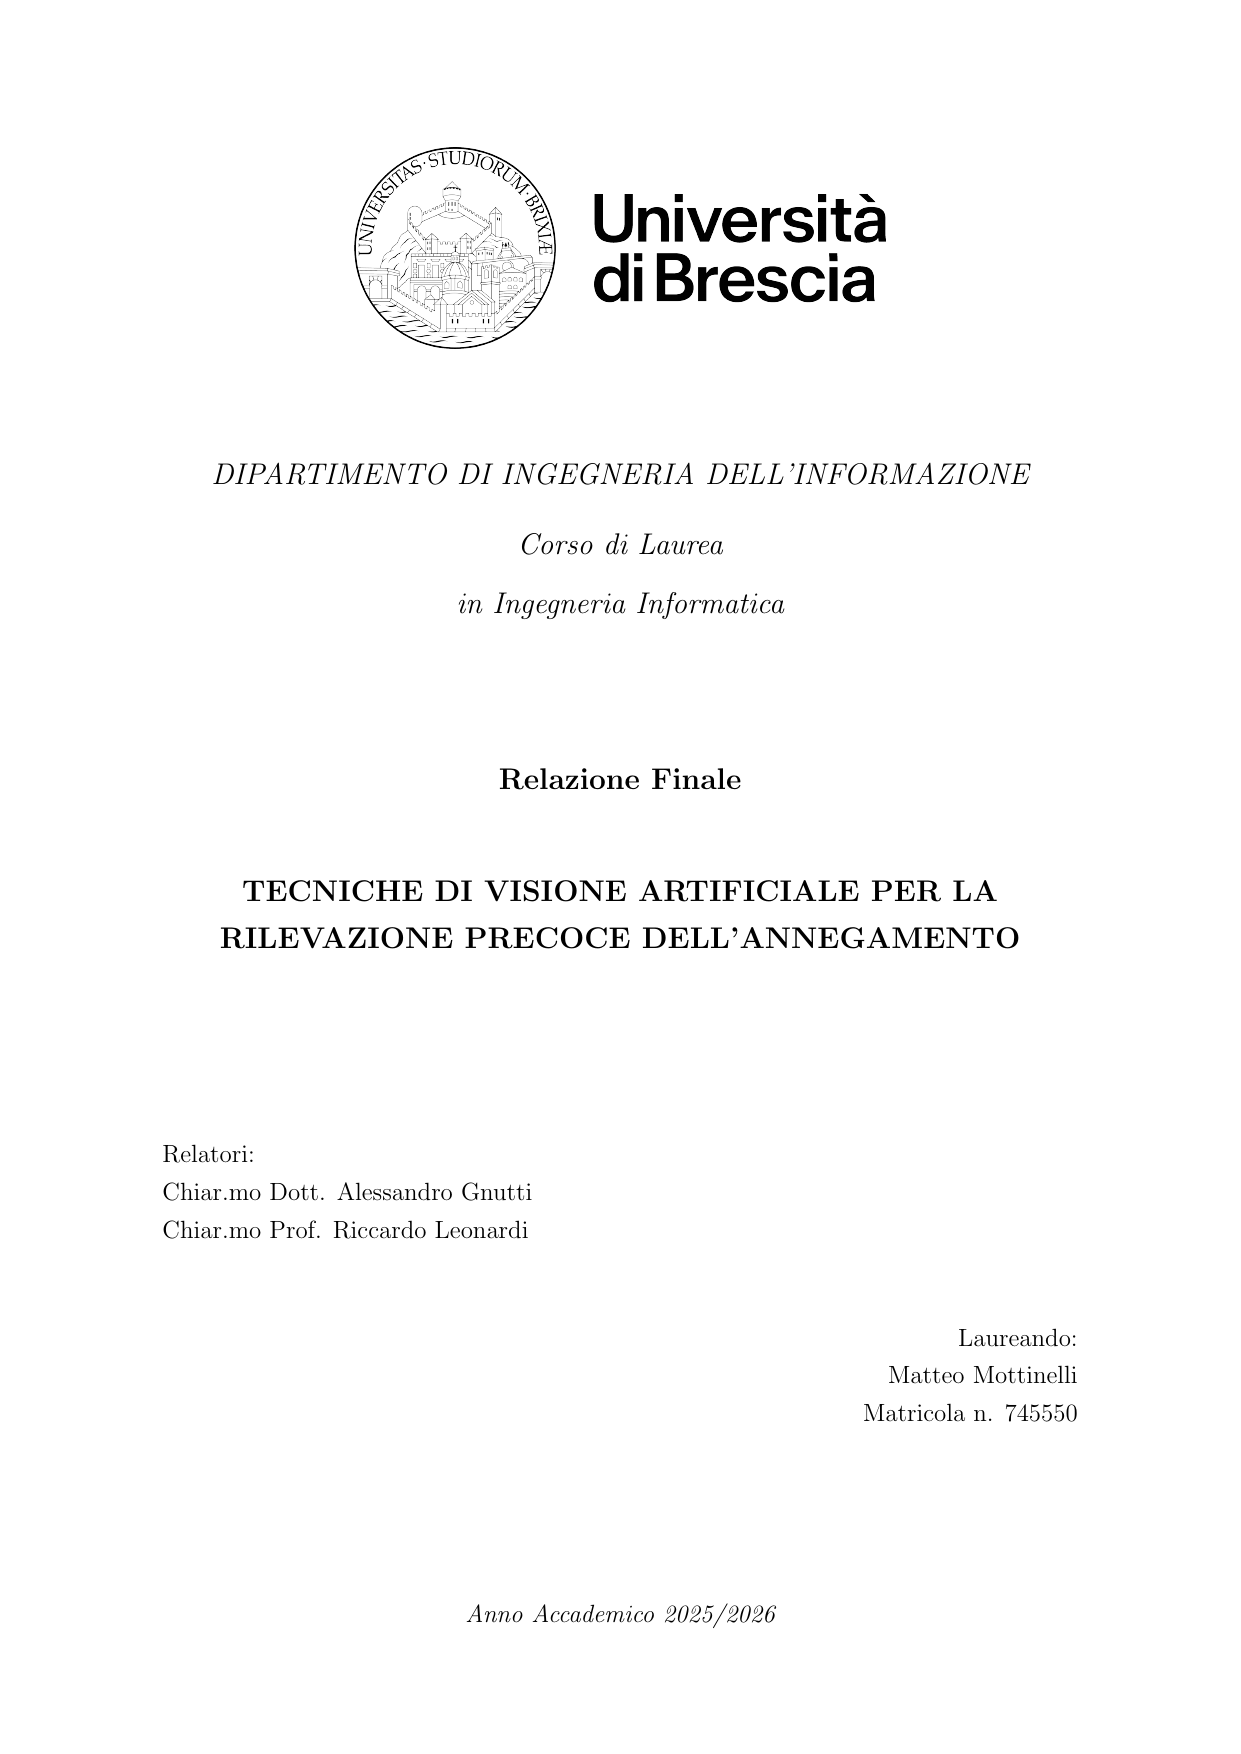
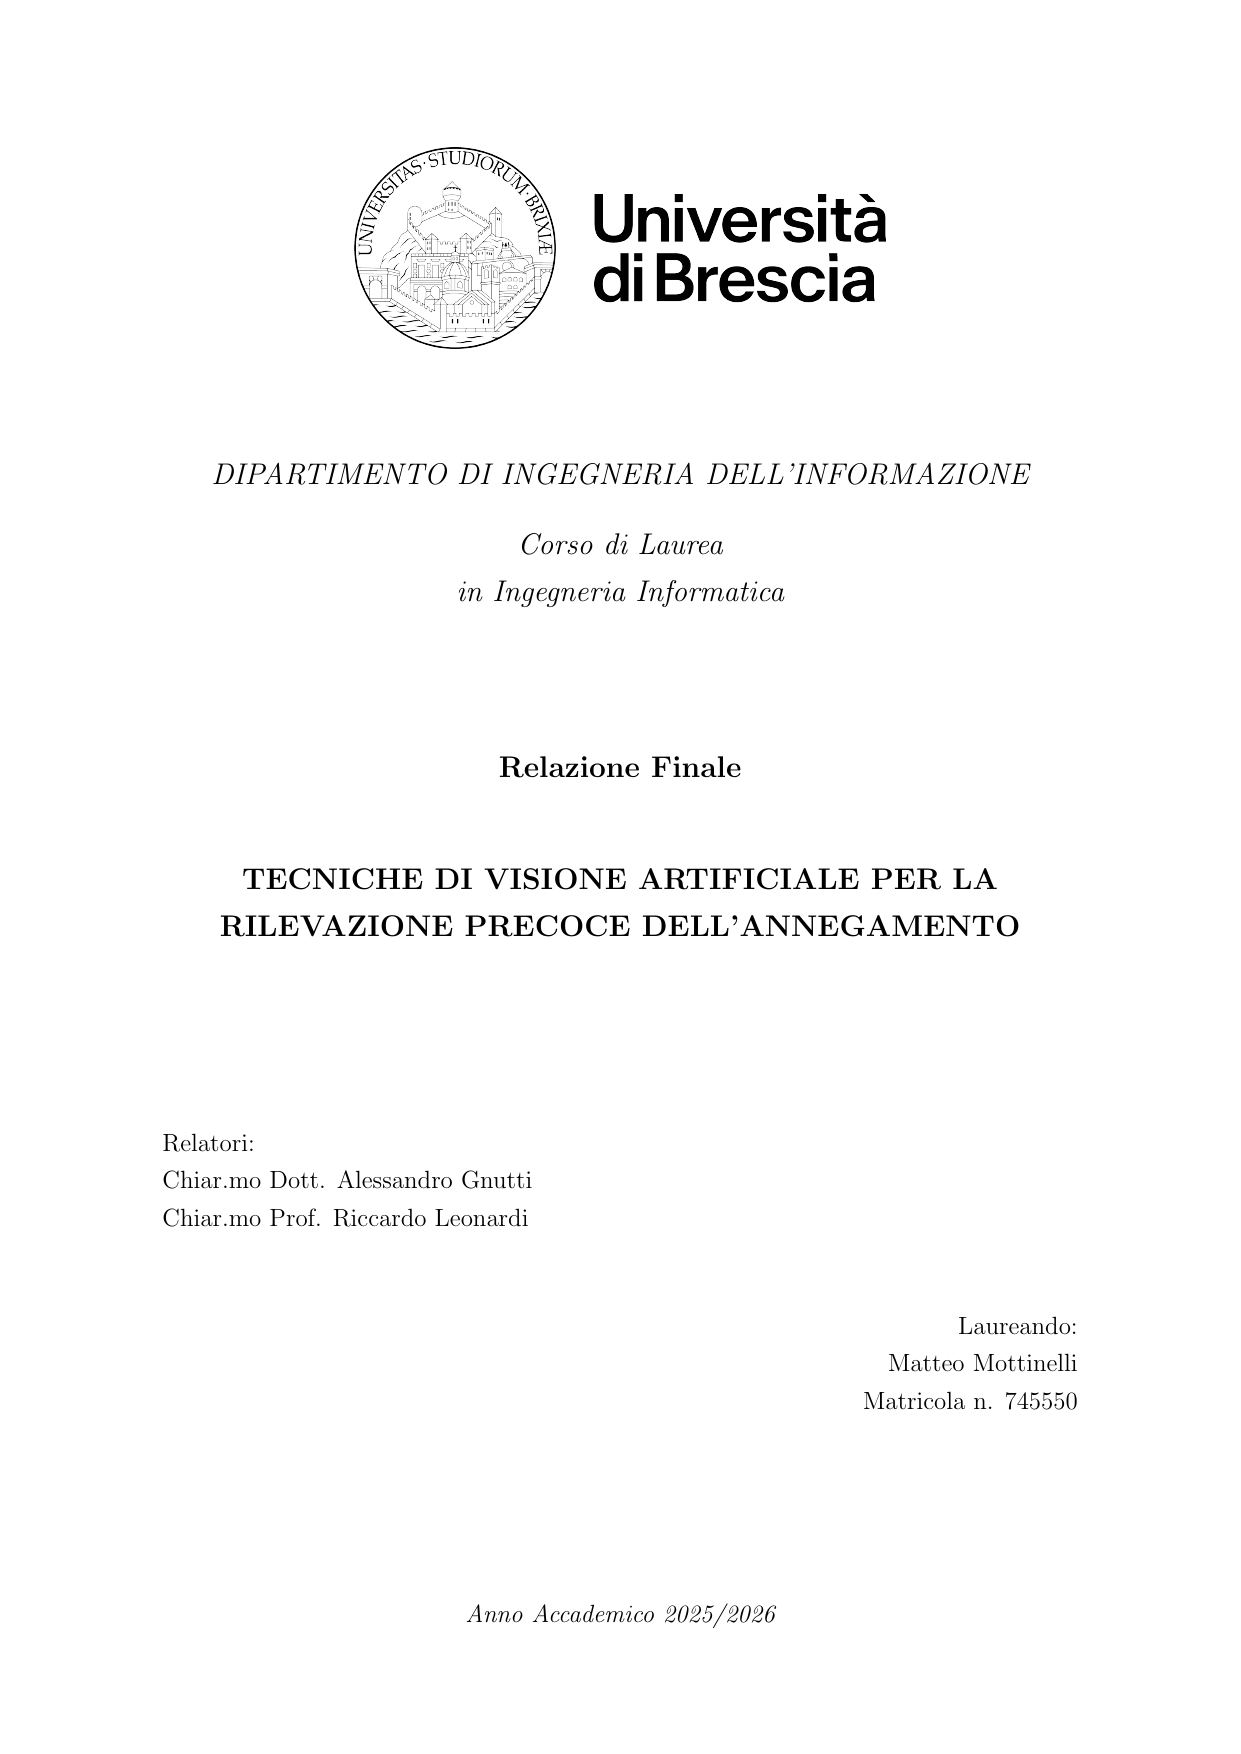
titlepage fix

diff --git a/title.tex b/title.tex
@@ -14,7 +14,6 @@
 {\large\itshape DIPARTIMENTO DI INGEGNERIA DELL'INFORMAZIONE\par}
 \vspace{4mm}
 {\large\itshape Corso di Laurea\par}
-\vspace{2mm}
 {\large\itshape in Ingegneria Informatica\par}
 
 \vspace{22mm}
